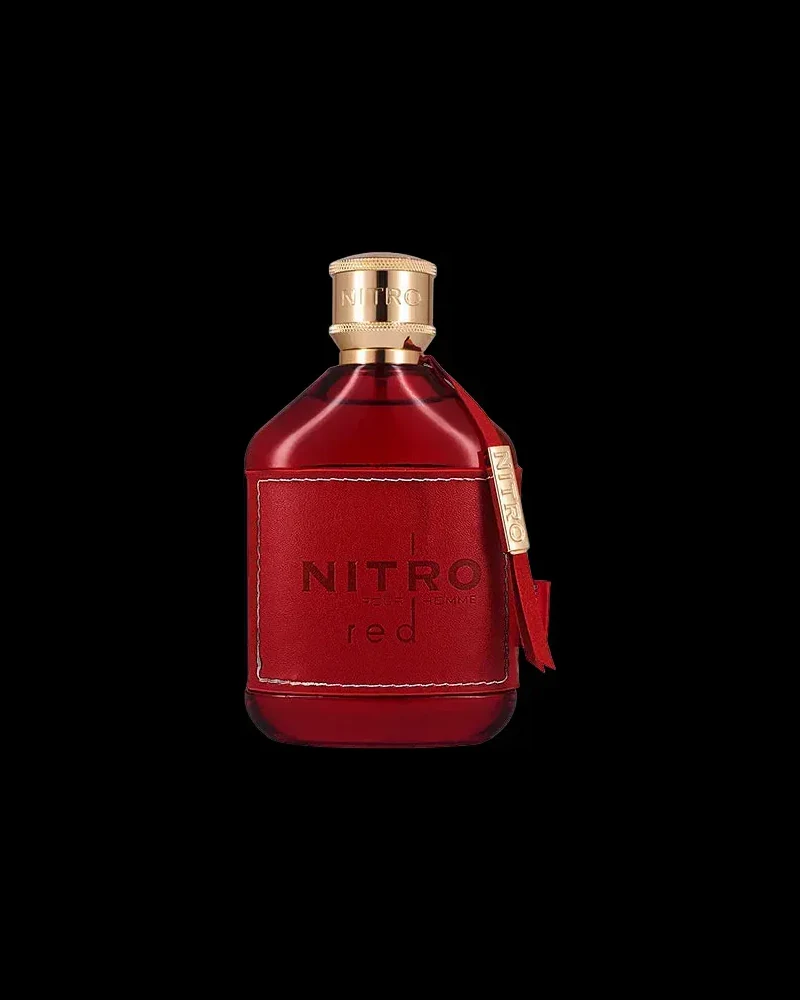
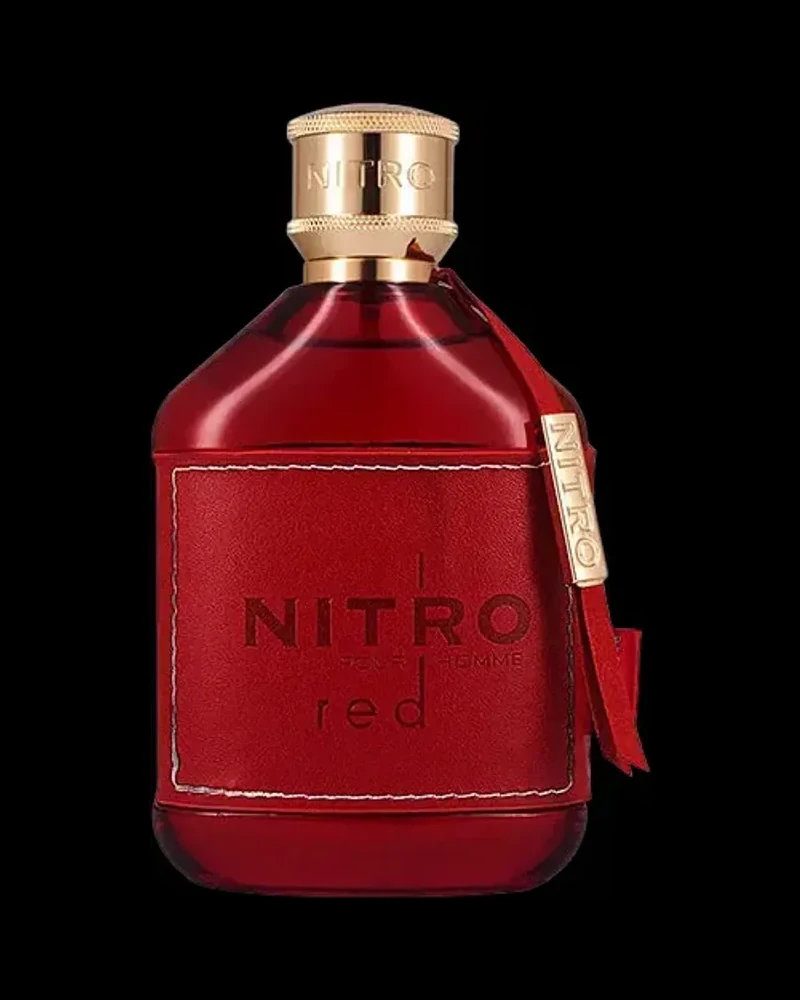
Nitro Red y Yum Yum: frasco agrandado (con tope) para igualar a los demás
Nueva opción maxUpscale por fuente (máx. 1,8×), solo para fotos oficiales pequeñas
revisadas a mano; queda anotado en el inventario.

Claude-Session: https://claude.ai/code/session_01UGJ4DfQk5eYTbaXJPru3ng

Changed region(s): [[0.1875, 0.093, 0.8125, 0.899]]

diff --git a/server/scripts/productPhotos.ts b/server/scripts/productPhotos.ts
@@ -38,6 +38,12 @@ export interface PhotoSource {
    * Se acepta solo si es mejor que la que hay (anota el motivo en source).
    */
   minLongSide?: number
+  /**
+   * Excepción revisada a mano para fotos oficiales pequeñas: deja agrandar el frasco hasta este
+   * factor (máximo 1.8) para que no se vea diminuto junto a los demás. Pierde algo de nitidez;
+   * anótalo en note y cámbiala por una foto mejor en cuanto exista.
+   */
+  maxUpscale?: number
   /** Si origin es una copia local (p. ej. con el fondo recortado): la URL de la imagen original */
   imageUrl?: string
   /** Quién publica la foto: "Lattafa (sitio oficial)", "Foto propia"… */
@@ -87,6 +93,8 @@ const INNER_HEIGHT = 880
 const MIN_LONG_SIDE = 700
 /** Copias que se publican de cada foto (ancho en px; la de 800 es la principal) */
 const VARIANT_WIDTHS = [400, 800, 1200] as const
+/** Tope de maxUpscale: más que esto se vería borroso */
+const MAX_UPSCALE = 1.8
 const MAX_BYTES = 25 * 1024 * 1024
 const ATTEMPTS = 3
 
@@ -174,6 +182,7 @@ async function backgroundOf(image: Buffer) {
 async function optimize(
   original: Buffer,
   minLongSide = MIN_LONG_SIDE,
+  maxUpscale = 1,
 ): Promise<{ variants: { width: number; webp: Buffer }[]; width: number; height: number }> {
   // failOn 'error': un archivo dañado o que no es imagen se rechaza aquí
   const meta = await sharp(original, { failOn: 'error' }).metadata()
@@ -201,12 +210,18 @@ async function optimize(
   const trimmedMeta = await sharp(trimmed).metadata()
   // Cuánto habría que agrandar el frasco para llenar el espacio de la foto de 800 × 1000
   const fill = Math.min(INNER_WIDTH / trimmedMeta.width!, INNER_HEIGHT / trimmedMeta.height!)
+  // Tamaño del frasco en la foto de 800 × 1000: lo que quepa, sin agrandar salvo la excepción
+  const factor = Math.min(fill, Math.max(1, Math.min(maxUpscale, MAX_UPSCALE)))
+  const bottle = {
+    width: Math.round(trimmedMeta.width! * factor),
+    height: Math.round(trimmedMeta.height! * factor),
+  }
   const variants: { width: number; webp: Buffer }[] = []
   for (const target of VARIANT_WIDTHS) {
     const scale = target / WIDTH
     // La copia Retina solo se crea si sale de píxeles reales (nunca agrandando la foto)
     if (target > WIDTH && fill * scale > 1) continue
-    variants.push({ width: target, webp: await canvas(trimmed, background, scale) })
+    variants.push({ width: target, webp: await canvas(trimmed, bottle, background, scale) })
   }
   return { variants, width, height }
 }
@@ -214,17 +229,15 @@ async function optimize(
 /** Centra el frasco en un lienzo 4:5 (800 × 1000 por `scale`) del color de su fondo. */
 async function canvas(
   trimmed: Buffer,
+  bottle: { width: number; height: number },
   background: { r: number; g: number; b: number; alpha: number },
   scale: number,
 ) {
   const outWidth = Math.round(WIDTH * scale)
   const outHeight = Math.round(HEIGHT * scale)
   // El tamaño del frasco sale siempre de la medida 800 × 1000: así las tres copias son iguales
-  const base = await sharp(trimmed)
-    .resize(INNER_WIDTH, INNER_HEIGHT, { fit: 'inside', withoutEnlargement: true })
-    .toBuffer({ resolveWithObject: true })
   const fitted = await sharp(trimmed)
-    .resize(Math.round(base.info.width * scale), Math.round(base.info.height * scale), {
+    .resize(Math.round(bottle.width * scale), Math.round(bottle.height * scale), {
       fit: 'fill',
       kernel: 'lanczos3',
     })
@@ -292,7 +305,11 @@ for (const entry of sources) {
     const owner = hashes.get(sha256)
     if (owner && owner !== entry.sku)
       throw new Error(`es la misma imagen que ya usa ${owner}: revisa que sea el perfume correcto`)
-    const { variants, width, height } = await optimize(original, entry.minLongSide)
+    const { variants, width, height } = await optimize(
+      original,
+      entry.minLongSide,
+      entry.maxUpscale,
+    )
     const folder = path.dirname(output)
     mkdirSync(folder, { recursive: true })
     // Se borran las copias anteriores de este producto (otro nombre o tamaño)
